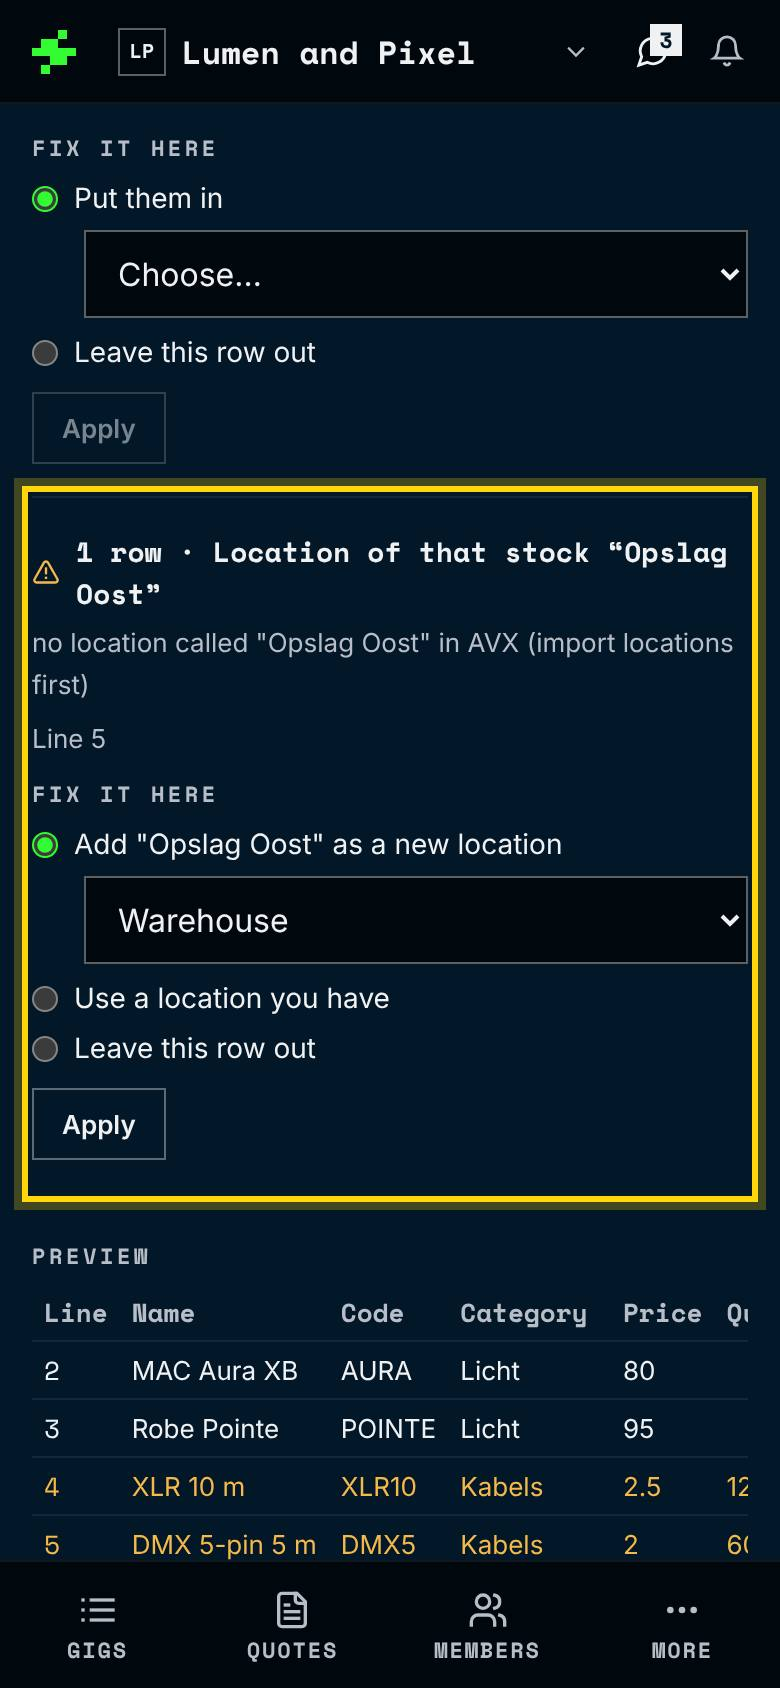
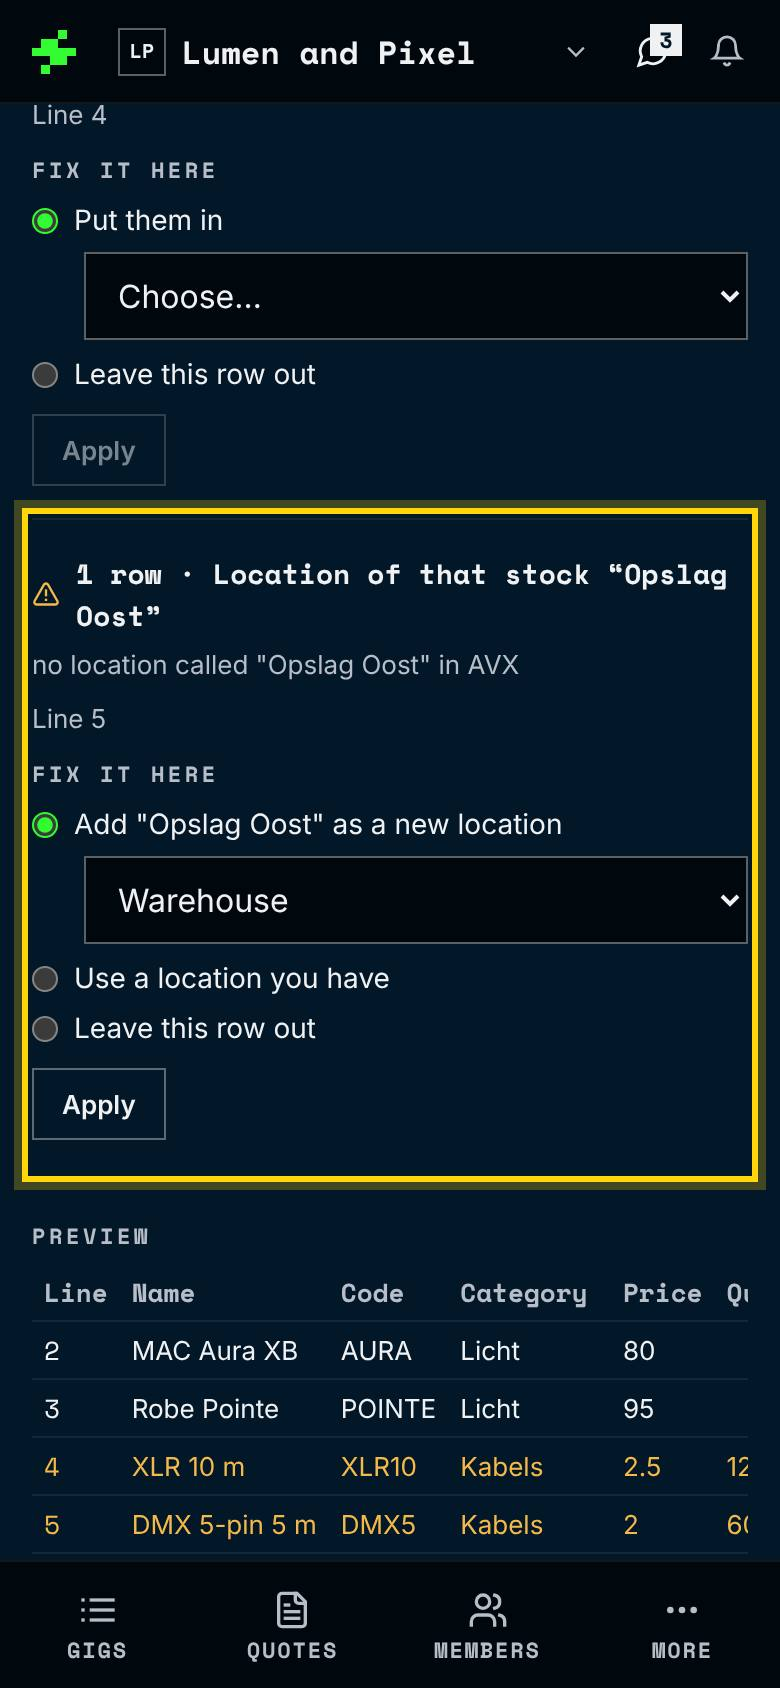
Import follow-up: shorter problem texts, file hint, two small fixes (IMFIX) (#178)
Claude-Session: https://claude.ai/code/session_01TrujDKbmLMCfP8S1663ynE

Changed region(s): [[0.0, 0.0616, 0.9846, 0.9242], [0.9231, 0.8626, 0.9846, 0.9242]]

diff --git a/src/i18n/pt.js b/src/i18n/pt.js
@@ -3187,7 +3187,7 @@ export default {
   "imp.order": "Importe por esta ordem: locais, depois equipamento, depois unidades, depois conteúdos dos kits. Clientes e fornecedores podem vir a qualquer altura.",
   "imp.file": "O ficheiro",
   "imp.chooseFile": "Escolher um ficheiro",
-  "imp.fileHint": "Excel (.xlsx, a primeira folha), CSV ou separado por tabulações, como a maioria das ferramentas exporta.",
+  "imp.fileHint": "Excel (.xlsx), CSV ou separado por tabulações, como a maioria das ferramentas exporta.",
   "imp.paste": "Ou cole de uma folha de cálculo",
   "imp.pastePlaceholder": "Copie as linhas (com os títulos) do Excel ou do Google Sheets e cole-as aqui",
   "imp.fromFile": "A ler do ficheiro escolhido",
@@ -3553,9 +3553,9 @@ export default {
   "imp.err.powerRange": "fora do que uma ficha técnica elétrica indica (verifique a unidade)",
   "imp.err.powerNeedVolts": "os amperes precisam da tensão a que são dados (uma coluna de volts)",
   "imp.err.powerTypical": "a potência típica não pode ser maior que a máxima",
-  "imp.err.unknownLocation": "não há nenhum local \"{value}\" no AVX (importe primeiro os locais)",
-  "imp.err.sameName": "há vários artigos chamados \"{value}\": junte os códigos ao ficheiro",
-  "imp.err.unknownItem": "não há nenhum artigo \"{value}\" no AVX (importe primeiro o equipamento)",
+  "imp.err.unknownLocation": "não há nenhum local \"{value}\" no AVX",
+  "imp.err.sameName": "há vários artigos chamados \"{value}\"",
+  "imp.err.unknownItem": "não há nenhum artigo \"{value}\" no AVX",
   "imp.err.bulkItem": "\"{value}\" é contado em quantidade, não por unidade",
   "imp.srv.nameMissing": "Falta o nome.",
   "imp.srv.unknownLocation": "Não há nenhum local \"{name}\".",
@@ -3625,7 +3625,7 @@ export default {
   "imp.kindAbout.kits": "O que vai em cada conjunto ou caixa, e os acessórios que acompanham um artigo: uma linha por peça.",
   "imp.missing.kits": "Escolha as colunas que dizem o kit (conjunto, caixa ou artigo) e o que vai nele.",
   "imp.xlsxError": "Não foi possível ler esse ficheiro Excel. Guarde-o de novo como .xlsx ou CSV e tente outra vez.",
-  "imp.err.unknownKit": "não há nenhum kit \"{value}\" no AVX (importe primeiro o equipamento)",
+  "imp.err.unknownKit": "não há nenhum kit \"{value}\" no AVX",
   "imp.err.selfKit": "\"{value}\" não se pode conter a si próprio",
   "imp.srv.unknownKit": "Não há nenhum kit \"{name}\".",
   "imp.srv.kitQuantity": "A quantidade tem de ser de 1 a 1000.",
@@ -3687,7 +3687,7 @@ export default {
   "imp.missing.clients": "Escolha a coluna com o nome do cliente.",
   "imp.missing.suppliers": "Escolha a coluna com o nome do fornecedor.",
   "imp.err.email": "não é um endereço de e-mail",
-  "imp.err.sameContact": "há vários contactos chamados \"{value}\": junte ao ficheiro os NIF ou os e-mails",
+  "imp.err.sameContact": "há vários contactos chamados \"{value}\"",
   "imp.srv.email": "Não é um endereço de e-mail: {name}.",
   "imp.srv.sameContact": "Há vários contactos chamados \"{name}\": junte os NIF ao ficheiro.",
   "imp.contactsOff": "A importação de contactos ainda não está ligada: um administrador corre primeiro um passo à mão (ver SETUP.md). Adicioná-los um a um já funciona.",
@@ -3802,7 +3802,7 @@ export default {
   "imp.err.cancelledJob": "\"{value}\" está cancelado: fica de fora",
   "imp.err.pastJob": "\"{value}\" já passou: fica de fora (continua na exportação da ferramenta antiga)",
   "imp.err.noStart": "um trabalho novo precisa de data de início",
-  "imp.err.unknownJob": "não há trabalho \"{value}\" no AVX (importe primeiro os trabalhos)",
+  "imp.err.unknownJob": "não há trabalho \"{value}\" no AVX",
   "imp.err.notTracked": "\"{value}\" não é gerido em stock, por isso não pode ser planeado (os conjuntos planeiam-se pelo conteúdo)",
   "imp.srv.unknownStatus": "Estado desconhecido: {name}.",
   "imp.srv.cancelledJob": "Cancelado, fica de fora: {name}.",

diff --git a/src/i18n/en.js b/src/i18n/en.js
@@ -3188,7 +3188,7 @@ export default {
   "imp.order": "Import in this order: locations, then equipment, then units, then kit contents. Clients and suppliers can come in at any time.",
   "imp.file": "The file",
   "imp.chooseFile": "Choose a file",
-  "imp.fileHint": "Excel (.xlsx, its first sheet), CSV or tab-separated, as most tools export.",
+  "imp.fileHint": "Excel (.xlsx), CSV or tab-separated, as most tools export.",
   "imp.paste": "Or paste from a spreadsheet",
   "imp.pastePlaceholder": "Copy the rows (with their headings) from Excel or Google Sheets and paste them here",
   "imp.fromFile": "Reading from the chosen file",
@@ -3554,9 +3554,9 @@ export default {
   "imp.err.powerRange": "outside what an electrical datasheet gives (check the unit)",
   "imp.err.powerNeedVolts": "amps need the voltage they're given at (a volts column)",
   "imp.err.powerTypical": "typical power can't be above the maximum power",
-  "imp.err.unknownLocation": "no location called \"{value}\" in AVX (import locations first)",
-  "imp.err.sameName": "several items are called \"{value}\": add their codes to the file",
-  "imp.err.unknownItem": "no item \"{value}\" in AVX (import equipment first)",
+  "imp.err.unknownLocation": "no location called \"{value}\" in AVX",
+  "imp.err.sameName": "several items are called \"{value}\"",
+  "imp.err.unknownItem": "no item \"{value}\" in AVX",
   "imp.err.bulkItem": "\"{value}\" is counted in bulk, not per unit",
   "imp.srv.nameMissing": "The name is missing.",
   "imp.srv.unknownLocation": "No location called \"{name}\".",
@@ -3626,7 +3626,7 @@ export default {
   "imp.kindAbout.kits": "What goes in each set or case, and the accessories that come with an item: one row per part.",
   "imp.missing.kits": "Choose which columns say the kit (set, case or item) and what goes in it.",
   "imp.xlsxError": "That Excel file couldn't be read. Save it again as .xlsx or CSV and try once more.",
-  "imp.err.unknownKit": "no kit \"{value}\" in AVX (import equipment first)",
+  "imp.err.unknownKit": "no kit \"{value}\" in AVX",
   "imp.err.selfKit": "\"{value}\" can't contain itself",
   "imp.srv.unknownKit": "No kit \"{name}\".",
   "imp.srv.kitQuantity": "The quantity must be 1 to 1000.",
@@ -3688,7 +3688,7 @@ export default {
   "imp.missing.clients": "Choose which column has the client's name.",
   "imp.missing.suppliers": "Choose which column has the supplier's name.",
   "imp.err.email": "not an e-mail address",
-  "imp.err.sameContact": "several contacts are called \"{value}\": add their tax numbers or e-mail addresses to the file",
+  "imp.err.sameContact": "several contacts are called \"{value}\"",
   "imp.srv.email": "Not an e-mail address: {name}.",
   "imp.srv.sameContact": "Several contacts are called \"{name}\": add their tax numbers to the file.",
   "imp.contactsOff": "Importing contacts isn't switched on yet: an administrator runs one step by hand first (see SETUP.md). Adding them one by one works already.",
@@ -3803,7 +3803,7 @@ export default {
   "imp.err.cancelledJob": "\"{value}\" is cancelled: left out",
   "imp.err.pastJob": "\"{value}\" is in the past: left out (it stays in your old tool's export)",
   "imp.err.noStart": "a new job needs a start date",
-  "imp.err.unknownJob": "no job \"{value}\" in AVX (import the jobs first)",
+  "imp.err.unknownJob": "no job \"{value}\" in AVX",
   "imp.err.notTracked": "\"{value}\" isn't kept in stock, so it can't be planned (sets are planned through their contents)",
   "imp.srv.unknownStatus": "Unknown status: {name}.",
   "imp.srv.cancelledJob": "Cancelled, left out: {name}.",

diff --git a/src/pages/ImportPage.jsx b/src/pages/ImportPage.jsx
@@ -588,7 +588,7 @@ function DoneStep({ orgId, kind, result, table, headerRow, onAgain, onRetry }) {
       <div style={{ display: 'flex', gap: '8px', flexWrap: 'wrap' }}>
         {problems.length > 0 && <button type="button" onClick={download} style={btn}><Download size={14} /> {t('imp.download')}</button>}
         <button type="button" onClick={() => onAgain()} style={btn}><Upload size={14} /> {t('imp.another')}</button>
-        {next && <button type="button" onClick={() => onAgain(next)} style={btnPrimary}>{t('imp.nextKind', { kind: t(`imp.kind.${next}`) })} <ArrowRight size={14} /></button>}
+        {next && <button type="button" onClick={() => onAgain(next)} style={{ ...btnPrimary, flexShrink: 1, minWidth: 0, textAlign: 'left' }}>{t('imp.nextKind', { kind: t(`imp.kind.${next}`) })} <ArrowRight size={14} /></button>}
         <Link to={homeOf(orgId, kind)[0]} style={{ ...(isHeld(kind) ? btnPrimary : btn), textDecoration: 'none' }}>{t(isHeld(kind) ? 'imp.reviewHeld' : 'imp.see')}</Link>
       </div>
     </div>

diff --git a/src/components/import/CheckStep.jsx b/src/components/import/CheckStep.jsx
@@ -241,7 +241,7 @@ export default function CheckStep({ orgId, kind, table, mapping, headerRow, defa
             ? <FixGroup key={g.key} group={g} kind={kind} ctx={ctx} onApply={apply} />
             : <p key={g.key} style={{ display: 'flex', gap: space[2], alignItems: 'baseline', fontSize: '13px', color: colors.soft, lineHeight: 1.6, borderTop: `1px solid ${colors.border}`, padding: `${space[3]} 0`, margin: 0 }}>
                 <Info size={13} aria-hidden="true" style={{ flexShrink: 0, alignSelf: 'center' }} />
-                <span><strong style={{ color: 'var(--text)' }}>{t('imp.group.rows', { count: g.lines.length })}</strong> · {t(`imp.note.${g.reason}`)}</span>
+                <span><strong style={{ color: 'var(--text)' }}>{t('imp.group.rows', { count: g.lines.length })}</strong> · {t(`imp.note.${g.reason}`, { value: g.value ?? '' })}</span>
               </p>))}
         </section>
       )}

diff --git a/src/components/import/FixGroup.jsx b/src/components/import/FixGroup.jsx
@@ -22,7 +22,7 @@ export const choiceLabel = (words, value) => t(`imp.word.${words}.${value}`)
 // said when it refused them (brought back by "fix and try again")
 export function reasonText(group) {
   const { reason, value } = group
-  if (group.note) return t(`imp.note.${reason}`)
+  if (group.note) return t(`imp.note.${reason}`, { value: value ?? '' })
   if (reason === 'refused') return String(value ?? '')
   const key = `imp.err.${reason}`
   const text = t(key, { value: value ?? '' })

diff --git a/docs/notes/IMFIX.md b/docs/notes/IMFIX.md
@@ -1,0 +1,34 @@
+# IMFIX: import follow-up (problem texts, file hint, two small bugs)
+
+## Changelog
+### Changed
+- **Import check:** the problem texts now only say what's wrong, because the fixes right beside
+  them do the rest. Gone: "(import locations first)", "(import equipment first)", "(import the jobs
+  first)", "add their codes to the file" and "add their tax numbers or e-mail addresses to the file".
+- **Import, Choose step:** the file hint no longer says Excel files are read from their first
+  sheet; a workbook with several sheets asks which one. It now reads "Excel (.xlsx), CSV or
+  tab-separated, as most tools export."
+
+### Fixed
+- The "client not in Contacts" heads-up in the import check shows the client's name instead of
+  "{value}" (#173).
+- On a narrow phone in Portuguese, the "Seguinte: Unidades (números de série)" button at the end
+  of an equipment import wraps onto two lines instead of running off the screen (#170).
+
+## Roadmap
+None: a follow-up to the import overhaul (IM1–IM4), no new row.
+
+## Pending: test lines (section 2)
+- Import a jobs file whose client isn't in Contacts: the heads-up names the client.
+- On a 320 px phone in Portuguese, import equipment: the "Seguinte: Unidades…" button fits.
+
+## Pending: new questions (section 3)
+- D132 and D133 are done (owner's yes on 2026-11-10): mark them resolved.
+- Kept as they were (they don't send the person away to do something the check now does, or a
+  fix isn't always there): `imp.err.unknownPreset` "(use the brand and model, e.g. …)",
+  `imp.err.date` "(use 2024-03-01 or 01-03-2024)", `imp.err.notTracked` "(sets are planned
+  through their contents)", `imp.err.pastJob` "(it stays in your old tool's export)". Shorten
+  any of them too?
+
+## Session prompt
+none (a Dispatcher follow-up, not a prompt in docs/SESSION_PROMPTS.md)
